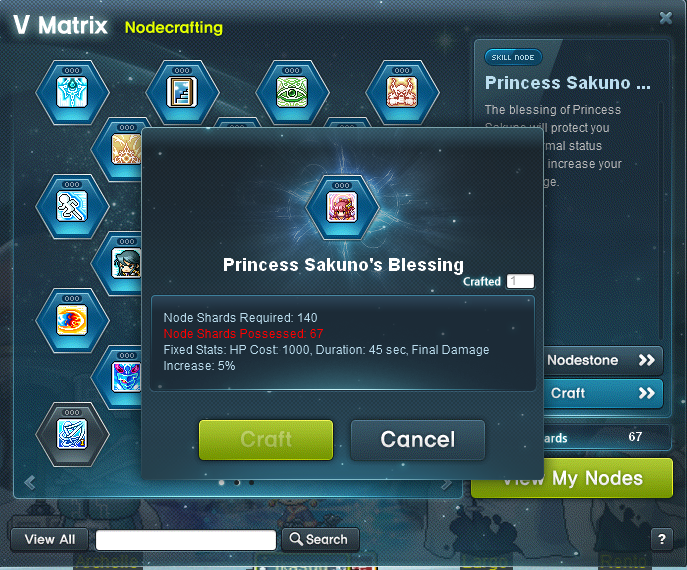
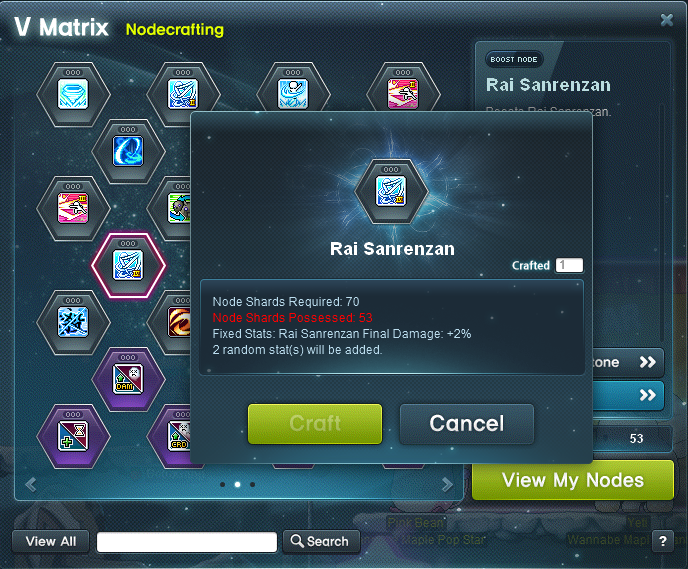
Updated V Matrix info

diff --git a/pages/content/progression-guide.js b/pages/content/progression-guide.js
@@ -36,7 +36,7 @@ function ProgressionGuide() {
                 </li>
                 <li className="quick-jump"><Link smooth href="#140">Lv. 140 and Beyond</Link>
                 </li>
-                <li className="quick-jump"><Link smooth href="#5th">5th Job Advancement</Link>
+                <li className="quick-jump"><Link smooth href="#5th">5th Job Advancement &amp; Arcane River</Link>
                 </li>
                 <li className="quick-jump"><Link smooth href="#matrix">V Matrix + Nodestones</Link>
                 </li>
@@ -163,7 +163,7 @@ function ProgressionGuide() {
             <p>Going forward, you do not need to worry much about dailies or bosses for now until you've reached Lv. 200. You can however try and fight some bosses in the &lt; 2k Main Stat section of the <a href="https://www.grandislibrary.com/contents/progression-guide#bosses">Bosses</a> part of this guide for Mesos, equipment, and <a rel="noreferrer noopener" href="https://maplestory.wiki/GMS/215/item/2711001" target="_blank">Occult Cubes</a>. Your main priority right now is leveling up and working towards filling up each equipment slot with Epic Potential gear</p>
             <p>If you are struggling with Mesos, be sure to complete <img src="/images/map-icons/maple-tour.png" alt="MapIcon MTour" data-preserve-html-node="true"/> Maple Tour every day as the main reward is Mesos</p>
             {/*<div><Link smooth href="#top" scroll>Go to top</Link></div> */}
-            <ArticleHeaderTwo id="5th">5th Job Advancement:</ArticleHeaderTwo>
+            <ArticleHeaderTwo id="5th">5th Job Advancement &amp; Arcane River:</ArticleHeaderTwo>
             <hr/>
             <p><strong>Mandatory Requirements to accept 5th Job Quest:</strong>
             </p>
@@ -196,20 +196,21 @@ function ProgressionGuide() {
                 </ul>
                 </li>
             </ul>
-            <p><strong>After Advancement, obtaining an Arcane Symbol:</strong> To deal damage to monsters in the Arcane River, Arcane Power is required similar to Star Force which you gain from equipping <img src="/images/equipment/arcane-symbol.png" alt="Eqp Arcane Symbol"/> <a rel="noreferrer noopener" href="https://maplestory.fandom.com/wiki/Arcane_Symbols" target="_blank">Arcane Symbols</a></p>
+            <img className="repository-image" src="/images/info/arcane-force-ui.png" alt="Arcane Force UI"/>
+            <p><strong>After Advancement, obtaining an Arcane Symbol:</strong> To deal damage to monsters in the <a href="https://maplestory.fandom.com/wiki/Category:Arcane_River" target="_blank" rel="noopener referrer">Arcane River</a> - the main region past Level 200, Arcane Power is required similar to Star Force which you gain from equipping <img src="/images/equipment/arcane-symbol.png" alt="Eqp Arcane Symbol"/> <a rel="noreferrer noopener" href="https://maplestory.fandom.com/wiki/Arcane_Symbols" target="_blank">Arcane Symbols</a></p>
             <ul>
-                <li>To obtain your Arcane Symbol, you must complete the quest <a href="https://maplestory.wiki/GMS/210.1.1/quest/1466" target="_blank" rel="noreferrer noopener">"A Greater Power"</a> located in your Lightbulb icon. This quest is intentionally difficult as you have no Arcane Power</li>
-                <li><strong>[Note]: </strong>The symbol you obtain is not a real Arcane Symbol yet until you complete the Vanishing Journey storyline. In the meantime, you must complete the story with the limited Arcane Power you have</li>
-                <li><strong>[Tip] </strong>If you are struggling to defeat the monsters, there is a Hyper Stat for Arcane Power, allocate some points temporarily until you get enough Arcane Power</li>
+                <li>To obtain your first Arcane Symbol, you must complete the quest <a href="https://maplestory.wiki/GMS/210.1.1/quest/1466" target="_blank" rel="noreferrer noopener">"A Greater Power"</a> located in your Lightbulb icon. This quest is intentionally difficult as you have no Arcane Power yet</li>
+                <li><strong>[Note]</strong>: The symbol you obtain is not a real Arcane Symbol yet until you complete the Vanishing Journey storyline. In the meantime, you must complete the story with the limited Arcane Power you have</li>
+                <li><strong>[Tip]</strong> If you are struggling to defeat the monsters, there is a Hyper Stat for Arcane Power, allocate some points temporarily until you get enough Arcane Power</li>
             </ul>
             {/*<div><Link smooth href="#top" scroll>Go to top</Link></div> */}
             <ArticleHeaderTwo id="matrix">5th Job V Matrix + Nodestones:</ArticleHeaderTwo>
             <hr/>
             <img className="repository-image" src="/images/info/v-matrix-ui.png" alt="V Matrix"/>
-            <p>In 5th Job, you do not gain skills regularly like your previous Job Advancements. Instead, you have "Nodes" which contains a 5th Job Skill. You can equip these Nodes into your V Matrix to gain access to that Skill. To gain Nodes, you need to open <img src="/images/items/nodestone.png" alt="Nodestone Item"/>Nodestones that are obtained from monsters in the Arcane River, Vanishing Journey Weekly Quest, and Event Shops</p>
+            <p>In 5th Job, you do not gain skills regularly like your previous Job Advancements. Instead, you have "Nodes" which contains a 5th Job Skill. You can equip these Nodes into your V Matrix to gain access to that skill. To gain Nodes, you need to open <img src="/images/items/nodestone.png" alt="Nodestone Item"/>Nodestones that are obtained from monsters in the Arcane River, Vanishing Journey Weekly Quest, Nodecrafting, and Event Shops</p>
             <img className="repository-image" src="/images/info/v-matrix-button.png" alt="Skill UI"/>
             <p>To view your V Matrix, open up your Skill UI, "K" by default, and click to the "V" tab and press the "V Matrix" button at the top</p>
-            <p>You will notice you will have empty slots and locked slots. You gain additional slots as you level up your Character Level which will allow you to equip more Nodes and in turn more 5th Job Skills. Additionally, you can pay Mesos to unlock slots early. To equip a Node, double-click or drag them into an empty slot</p>
+            <p>You will notice you have empty slots and locked slots. You gain additional slots as your character levels up which will allow you to equip more Nodes and in turn more 5th Job Skills. Additionally, you can pay Mesos to unlock slots early. To equip a Node, double-click or drag them into an empty slot</p>
             <p>All classes have their Main 5th Job Skills that are exclusive to that class. There are also 5th Job Skills exclusive to a certain Class Group like Explorers or Cygnus Knights. Lastly, there are Common 5th Job skills that are available to all classes</p>
             <img className="repository-image" src="/images/info/node-enhance.png" alt="Enhancing Node"/>
             <img className="repository-image" src="/images/info/node-enhance-button.png" alt="Enhance Single Node"/>
@@ -233,15 +234,24 @@ function ProgressionGuide() {
                 <li>They cannot be leveled up and have a timed duration and will disappear</li>
                 <li>It is best to disassemble these nodes for Node Shards that are used to craft new Nodes</li>
             </ul>
+            <h3>Matrix Points</h3>
+            <img className="repository-image" src="/images/info/slot-enhancement-button.png" alt="Slot Enhancement Button"/>
             <img className="repository-image" src="/images/info/matrix-points.png" alt="Matrix Points"/>
-            <p>Each time your character levels up, you gain a Matrix Point. Matrix Points are used to raise a Node's Rank but they are tied to the Node Slots themselves instead of the Node. Each slot can allocate up to 5 additional Ranks for a Node. This means each Skill Node or Boost Node can reach a max Rank of 30. You can assign your Matrix Points in the V Matrix by pressing the "Slot Enhancement" button on the right</p> <img className="repository-image" src="/images/npc/archelle.png" alt="Node Master"/>
+            <p>Each time your character levels up, you gain a Matrix Point. Matrix Points are used to raise a Node's Rank but they are tied to the Node Slots themselves instead of the Node. Each slot can allocate up to 5 additional Ranks for a Node. This means each Skill Node or Boost Node can reach a max Rank of 30. You can assign your Matrix Points in the V Matrix by pressing the "Slot Enhancement" button</p>
+            <h3>Node Enhancing</h3>
             <img className="repository-image" src="/images/info/node-crafting.png" alt="V Upgrade UI"/>
-            <p>To enhance your Nodes, you will need to talk to a Node Master such as <a rel="noreferrer noopener" href="https://maplestory.wiki/GMS/215/npc/1540945" target="_blank">Archelle</a> in <a rel="noreferrer noopener" href="https://maplestory.wiki/GMS/215/map/450001000" target="_blank">Nameless Town</a>. To start, right-click a Node you want to enhance. Using copies of the same Node you are trying to enhance, you consume the extra Nodes to the gain EXP required to level up a Node. As mentioned previously, to enhance Boost Nodes, you need Nodes with the same Main Skill. All Nodes have a max Rank of 25 meaning each Node provides 25 Skill Levels for a skill</p>
-            <p>To gain additional Nodes, you will need to open <img src="/images/items/nodestone.png" alt="Use Nodestone"/> <a href="https://maplestory.wiki/GMS/215/item/2435719" target="_blank" rel="noreferrer noopener">Nodestones</a> which will give you a random Node for your class. You can obtain Nodestones from monster drops in the Arcane River, from the <a href="https://maplestory.wiki/GMS/215/quest/34151" target="_blank" rel="noreferrer noopener">Weekly Quest in Vanishing Journey</a>, and from Events. Additionally, there is a special Nodestone called <img src="/images/items/exp-nodestone.png" alt="Use EXP Nodestone"/> <a href="https://maplestory.wiki/GMS/215/item/2439279" target="_blank" rel="noreferrer noopener">[Experience Nodestone]</a> which when opened provides an EXP Node that can be used on any Node as EXP. These Nodestones are only obtainable from Events</p>
-            <img className="repository-image" src="/images/info/node-disassemble.png" alt="Disassemble Node"/>
+            <p>To enhance your Nodes, right-click a Node you want to enhance. Using copies of the same Node you are trying to enhance, you consume the extra Nodes to the gain EXP required to level up a Node. As mentioned previously, to enhance Boost Nodes, you need Nodes with the same Main Skill. All Nodes have a max Rank of 25 meaning each Node provides 25 Skill Levels for a skill</p>
+            <p>To gain additional Nodes, you will need to open <img src="/images/items/nodestone.png" alt="Use Nodestone"/> <a href="https://maplestory.wiki/GMS/215/item/2435719" target="_blank" rel="noreferrer noopener">Nodestones</a> which will give you a random Node for your class. You can obtain Nodestones from monster drops in the Arcane River, from the <a href="https://maplestory.wiki/GMS/215/quest/34151" target="_blank" rel="noreferrer noopener">Weekly Quest in Vanishing Journey</a>, Nodecrafting, and from Events</p>
+            <p>There are also special Nodestones called <img src="/images/items/exp-nodestone.png" alt="Use EXP Nodestone"/> <a href="https://maplestory.wiki/GMS/215/item/2439279" target="_blank" rel="noreferrer noopener">[Experience Nodestone]</a> which when opened provides an EXP Node that can be used on any Node as EXP. These Nodestones are only obtainable from Events</p>
+            <h3>Node Disassembling</h3>
+            <img className="repository-image" src="/images/info/disassemble-node.png" alt="Disassemble Node"/>
+            <p>Nodes can be disassembled to gain Node Shards that are used to craft more Nodestones or a guaranteed Node. To disassemble Nodes, press on the "Disassemble Nodes" button beside the "Slot Enhancement" button</p>
+            <p>You can select multiple Nodes to disassemble at a time or right click to select to disassemble a single Node</p>
+            <h3>Nodecrafting</h3>
             <img className="repository-image" src="/images/info/node-skill-craft.png" alt="Node Crafting"/>
-            <p>Another way to gain more Nodes is by Nodecrafting. To craft Nodes, you will need Node Shards which are obtained from disassembling unwanted Nodes at a Node Master. To start, click on the "Nodecrafting" button and then click on a Node you want to craft and then press the "Craft" button. Don't press the Craft Nodestone button as you will get a Nodestone instead!</p>
-            <p><strong>[Note]</strong>: When crafting Boost Nodes, you can choose the Main Skill for that Node by choosing the desired skill in the Nodecrafting UI</p>
+            <p>Specific Nodes can be crafted by pressing the "Nodecrafting" button. To craft Nodes, you will need Node Shards which are obtained from disassembling Nodes</p>
+            <p>In the Nodecrafting UI, select the Node you want to craft and then press the "Craft" button. Do not press the "Craft Nodestone" button as you will craft a Nodestone instead</p>
+            <p><strong>[Note]</strong>: When crafting Boost Nodes, you can choose the Main Skill for that Node by selecting the desired skill in the Nodecrafting UI</p>
             {/*<div><Link smooth href="#top" scroll>Go to top</Link></div> */}
             <ArticleHeaderTwo id="legion">Legion System</ArticleHeaderTwo>
             <hr/>
